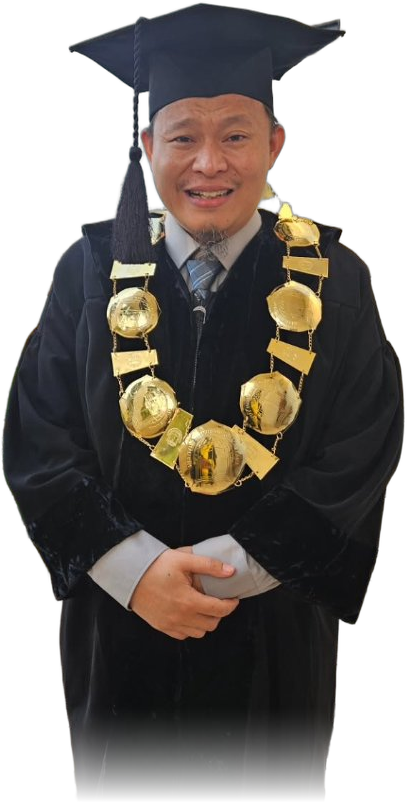
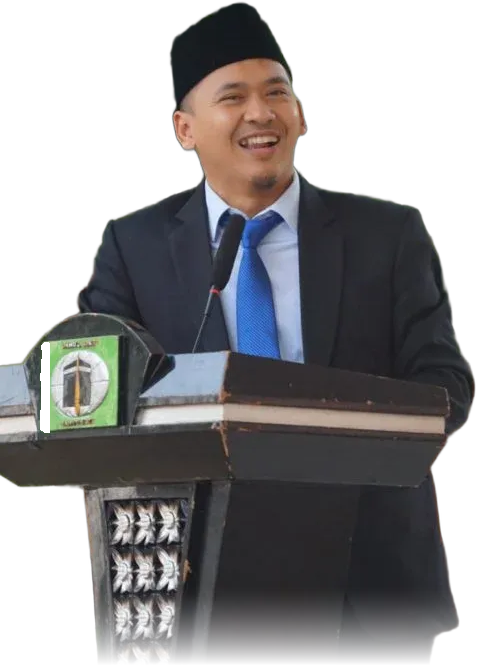
fix(pelindung): correct photos mapping - Ust Andri Noer Zaelani (Batik mic) and Dr. KH. Saiful Falah (Toga)

diff --git a/index.html b/index.html
@@ -413,7 +413,7 @@
 
             <!-- Figure Photo: On mobile pops out top center; on desktop sits at right bottom -->
             <div class="-mt-20 mb-4 md:mt-0 md:mb-0 md:block md:absolute md:bottom-0 md:right-4 lg:right-10 z-20 pointer-events-none flex justify-center order-1 md:order-2">
-              <img src="assets/pelindung/pelindung_saiful_falah.png" 
+              <img src="assets/pelindung/pelindung_saiful_falah.png?v=20261113b" 
                    alt="Dr. KH. Saiful Falah, M.Pd.I" 
                    class="h-52 sm:h-64 md:h-[340px] lg:h-[390px] w-auto object-contain pelindung-figure-shadow select-none transform transition-transform duration-300 group-hover:scale-105"
                    loading="lazy">
@@ -455,7 +455,7 @@
 
             <!-- Figure Photo: On mobile pops out top center; on desktop sits at left bottom -->
             <div class="-mt-20 mb-4 md:mt-0 md:mb-0 md:block md:absolute md:bottom-0 md:left-4 lg:left-10 z-20 pointer-events-none flex justify-center order-1">
-              <img src="assets/pelindung/pelindung_syamsul_rizal.png" 
+              <img src="assets/pelindung/pelindung_syamsul_rizal.png?v=20261113b" 
                    alt="Dr. KH. Syamsul Rizal Mz, S.H.I., M.Pd.I" 
                    class="h-52 sm:h-64 md:h-[340px] lg:h-[390px] w-auto object-contain pelindung-figure-shadow-light select-none transform transition-transform duration-300 group-hover:scale-105"
                    loading="lazy">
@@ -497,7 +497,7 @@
 
             <!-- Figure Photo: On mobile pops out top center; on desktop sits at right bottom -->
             <div class="-mt-20 mb-4 md:mt-0 md:mb-0 md:block md:absolute md:bottom-0 md:right-4 lg:right-10 z-20 pointer-events-none flex justify-center order-1 md:order-2">
-              <img src="assets/pelindung/pelindung_nuril_izzah.png" 
+              <img src="assets/pelindung/pelindung_nuril_izzah.png?v=20261113b" 
                    alt="Ustadzah Hj. Nuril Izzah" 
                    class="h-52 sm:h-64 md:h-[340px] lg:h-[390px] w-auto object-contain pelindung-figure-shadow select-none transform transition-transform duration-300 group-hover:scale-105"
                    loading="lazy">
@@ -539,7 +539,7 @@
 
             <!-- Figure Photo: On mobile pops out top center; on desktop sits at left bottom -->
             <div class="-mt-20 mb-4 md:mt-0 md:mb-0 md:block md:absolute md:bottom-0 md:left-4 lg:left-10 z-20 pointer-events-none flex justify-center order-1">
-              <img src="assets/pelindung/pelindung_ummu_hafsoh.png" 
+              <img src="assets/pelindung/pelindung_ummu_hafsoh.png?v=20261113b" 
                    alt="Ustadzah Hj. Ummu Hafsoh" 
                    class="h-52 sm:h-64 md:h-[340px] lg:h-[390px] w-auto object-contain pelindung-figure-shadow-light select-none transform transition-transform duration-300 group-hover:scale-105"
                    loading="lazy">
@@ -581,7 +581,7 @@
 
             <!-- Figure Photo: On mobile pops out top center; on desktop sits at right bottom -->
             <div class="-mt-20 mb-4 md:mt-0 md:mb-0 md:block md:absolute md:bottom-0 md:right-4 lg:right-10 z-20 pointer-events-none flex justify-center order-1 md:order-2">
-              <img src="assets/pelindung/pelindung_andri_zaelani.png" 
+              <img src="assets/pelindung/pelindung_andri_zaelani.png?v=20261113b" 
                    alt="Ustadz Andri Noer Zaelani, M.Pd." 
                    class="h-52 sm:h-64 md:h-[340px] lg:h-[390px] w-auto object-contain pelindung-figure-shadow select-none transform transition-transform duration-300 group-hover:scale-105"
                    loading="lazy">
